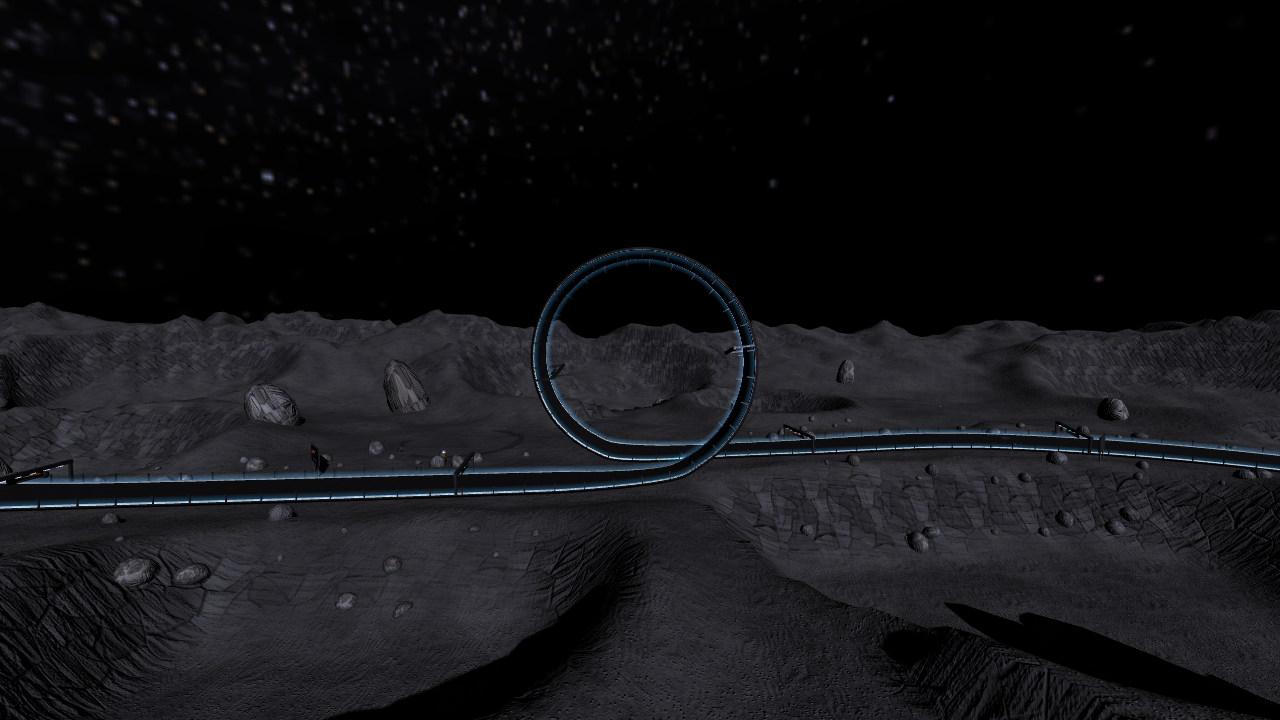
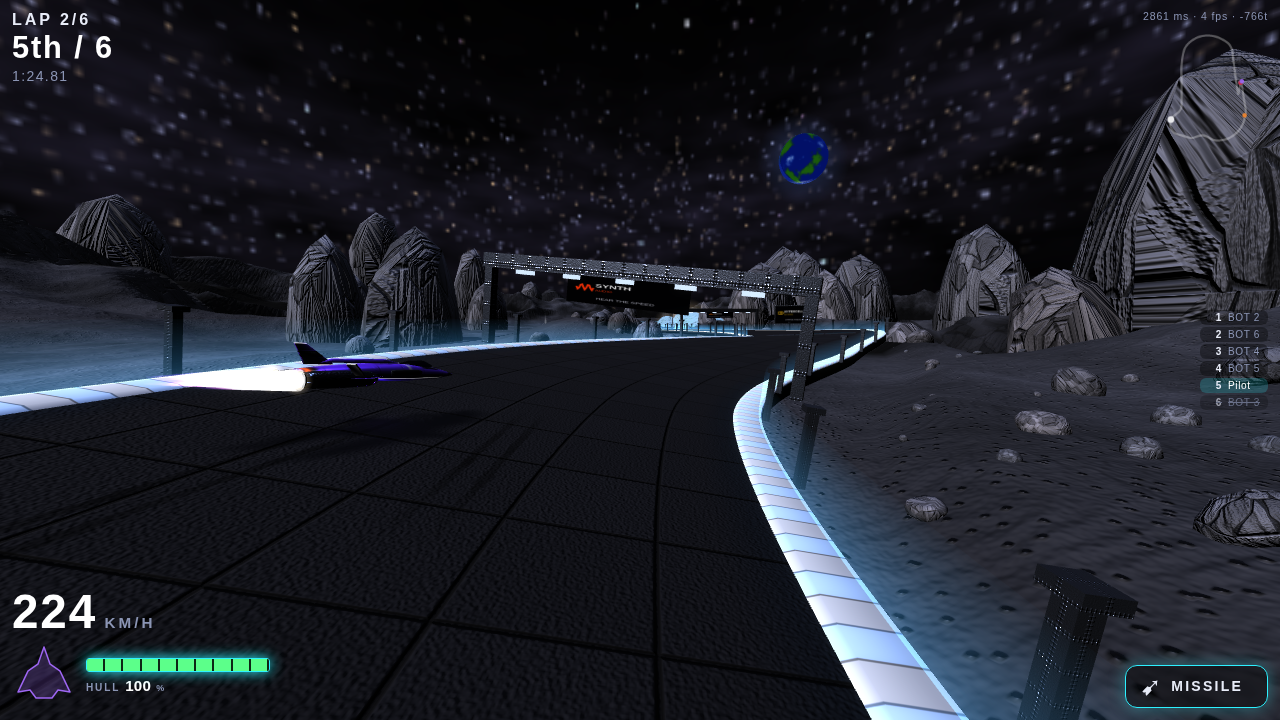
Re-shoot the three maps, and keep the shield out of the frame
New frames for Inferno, Selene and Osa, with a third angle each: the basin's
middle distance, Selene's loop and the lit road under a near-black sky, and the
reef tunnel with the caustics and the marine snow. The previous frames move to
pass1/ beside the older maps' first pass.

The photographer carries a permanent shield so it survives the race, and the
bubble was wrapping the craft in every shot. Hiding it did not stick, because
the render loop sets shield.visible from the snapshot flags again on the next
frame; taking it out of the scene graph does.

Claude-Session: https://claude.ai/code/session_011uQszjbA8SWdGi9ByjsS23

diff --git a/tools/shots.js b/tools/shots.js
@@ -71,8 +71,10 @@ for (const track of TRACK_IDS.filter(t => !ONLY || ONLY.includes(t))) {
     await page.waitForTimeout(300);
     // pickup flashes and hit rings are not scenery: clear them right before the capture
     await page.evaluate((hide) => { const sc = window.__agrav.scene(); const fx = sc.fx; for (const e of fx.live) e.obj?.parent?.remove(e.obj); fx.live.length = 0;
-      // the photographer carries a permanent shield so it survives the race; hide the bubble, or it wraps the craft in every frame
-      for (const c of sc.crafts.values()) if (c.shield) c.shield.visible = false; sc.three.traverse(o => { if (hide.includes(o.name)) o.visible = false; }); const p = window.__agrav.client.myPose(); const { camera, THREE } = window.__agrav;
+      // The photographer carries a permanent shield so it survives the race, and the bubble wraps
+      // the craft in every frame. Taking it out of the scene graph is the only thing that sticks:
+      // renderRace sets shield.visible from the snapshot flags again on the very next frame.
+      for (const c of sc.crafts.values()) c.shield?.removeFromParent(); sc.three.traverse(o => { if (hide.includes(o.name)) o.visible = false; }); const p = window.__agrav.client.myPose(); const { camera, THREE } = window.__agrav;
       // what stands between the camera and the craft (diagnostics for furniture in the shot)
       const me = sc.crafts.get(window.__agrav.client.me); let hit = null;
       if (me) { const dir = new THREE.Vector3(); camera.getWorldDirection(dir); const ray = new THREE.Raycaster(camera.position, dir, 0.1, 60); ray.camera = camera; const hits = ray.intersectObjects(sc.three.children, true).filter(h => !h.object.isSprite && h.object.geometry?.type !== 'SphereGeometry'); hit = hits[0] ? { name: hits[0].object.name || hits[0].object.type, d: +hits[0].distance.toFixed(1), geo: hits[0].object.geometry?.type } : null; }

diff --git a/agrav/README.md b/agrav/README.md
@@ -154,14 +154,25 @@ track is chosen (the lobby prewarms it), so the server ships nothing but the rib
 - **Inferno Basin** (`src/render/env/hell.js`): a red desert basin with lava basins carved under
   the causeway and the jump, the melt glowing through crust cracks on an emissive map that
   scrolls; seven volcanoes with ember columns that erupt every few seconds (a fireball and a
-  shower of lava bombs); a pool of meteors that streak in from a dome round the camera and burst
-  on the plain (never on the road), plus distant streaks; rising cinders, falling ash, red mist;
-  two flocks of black pterodactyls; the road material swapped for cooling lava.
+  shower of lava bombs), each crater carrying a glow that reads from the road four hundred metres
+  away; buttes, weathered slabs and spires filling the middle distance, obsidian shards nearer the
+  road, fissures with the melt showing through the plain, lava falling into the chasm and over the
+  lake wall, steam vents breathing beside the verge and pools of ember light along it; pylons under
+  the causeway where it flies over the melt; a pool of meteors that streak in from a dome round the
+  camera and burst on the plain (never on the road), plus distant streaks; rising cinders, falling
+  ash, red mist; two flocks of black pterodactyls; charred trees that stir in the heat; the road
+  material swapped for cooling lava.
 - **Mare Selene** (`src/render/env/moon.js`): a cratered mare (voronoi bowls with raised rims)
-  under a sky with the Milky Way and the Earth; near-zero fill light for hard shadows; angular
-  rock; four glass-domed base clusters lit from inside with airlocks, tubes, masts and solar
-  arrays; an Apollo lander with its flag, a parked rover and one driving a circuit; a crashed
-  saucer a third buried, its lamps still blinking and sparking. The **loop-the-loop** is a
+  under a sky with the Milky Way, the Earth and a station crossing overhead. The light is the
+  point: almost no fill, so shadows go near-black, while bright ejecta rays streak out of every
+  crater and the floors sink to almost nothing — one dim overhead fill keeps the road readable.
+  Angular rock near the road, a farther band breaking the skyline, and grit over the regolith;
+  four glass-domed base clusters lit from inside with airlocks, tubes, blinking masts, sweeping
+  dishes and arrays that tilt to follow the sun; an Apollo lander with a flag that ripples, a
+  parked rover and one driving a circuit, throwing up dust that arcs and drops straight back in the
+  vacuum; a crashed saucer a third buried, its lamps still blinking and sparking. The
+  **loop-the-loop** carries its own beacon rail and lamps, because `placeAlong` will not hang
+  scenery beside a loop and the hoop would otherwise be an unlit void. It is a
   one-turn helix: its control points carry `loop: 1`, which gives those frames a
   parallel-transported basis (see `shared/sim/spline.js`) so the road inverts cleanly, the
   physics holds the craft to the surface through it, and the chase camera rolls with the road.
@@ -169,9 +180,13 @@ track is chosen (the lobby prewarms it), so the server ships nothing but the rib
   basin wherever the road dives; dense canopy, palms, mangroves on prop roots, ferns, macaws,
   parrots and toucans, sloths and monkeys in the trees, iguanas, crocodiles in the shallows, a
   tapir, blue morphos over the road. Under the sea the road runs in a ribbed glass tunnel: the
-  fog turns deep blue, caustics ripple on the sand, light shafts hang in the water, and around
-  you are corals and sea fans, kelp, four fish schools, a dolphin pod that breaches, manta rays,
-  two whales, turtles and the lit domes and towers of a sunken city.
+  fog turns deep blue, the sand darkens with depth, two caustic sheets crawl over it at different
+  scales, light shafts hang and sway in the water, silt drifts through it and bubbles rise off the
+  reef. Around you are corals and sea fans, kelp, four fish schools, a dolphin pod that breaches,
+  manta rays, two whales, turtles and the lit domes and towers of a sunken city; one dolphin and
+  one ray circle each tunnel closely enough to meet you at the glass. Above water, pollen hangs in
+  shafts of sun through the canopy and mist sits in the hollows, and the sloths, monkeys, iguanas
+  and tapirs all move.
 - **Track furniture** (`src/render/track.js`): a concrete deck under the road, rumble-strip
   curbs, barrier posts carrying the energy wall, light gantries, pad housings, skid marks at the
   braking zones.
@@ -195,6 +210,7 @@ kept in `docs/screenshots/pass1/` for comparison.
 |---|---|---|
 | ![](../docs/screenshots/inferno-1.png) | ![](../docs/screenshots/selene-1.png) | ![](../docs/screenshots/osa-1.png) |
 | ![](../docs/screenshots/inferno-2.png) | ![](../docs/screenshots/selene-2.png) | ![](../docs/screenshots/osa-2.png) |
+| ![](../docs/screenshots/inferno-3.png) | ![](../docs/screenshots/selene-3.png) | ![](../docs/screenshots/osa-3.png) |
 
 | Kestrel | Talon | Vantage |
 |---|---|---|
